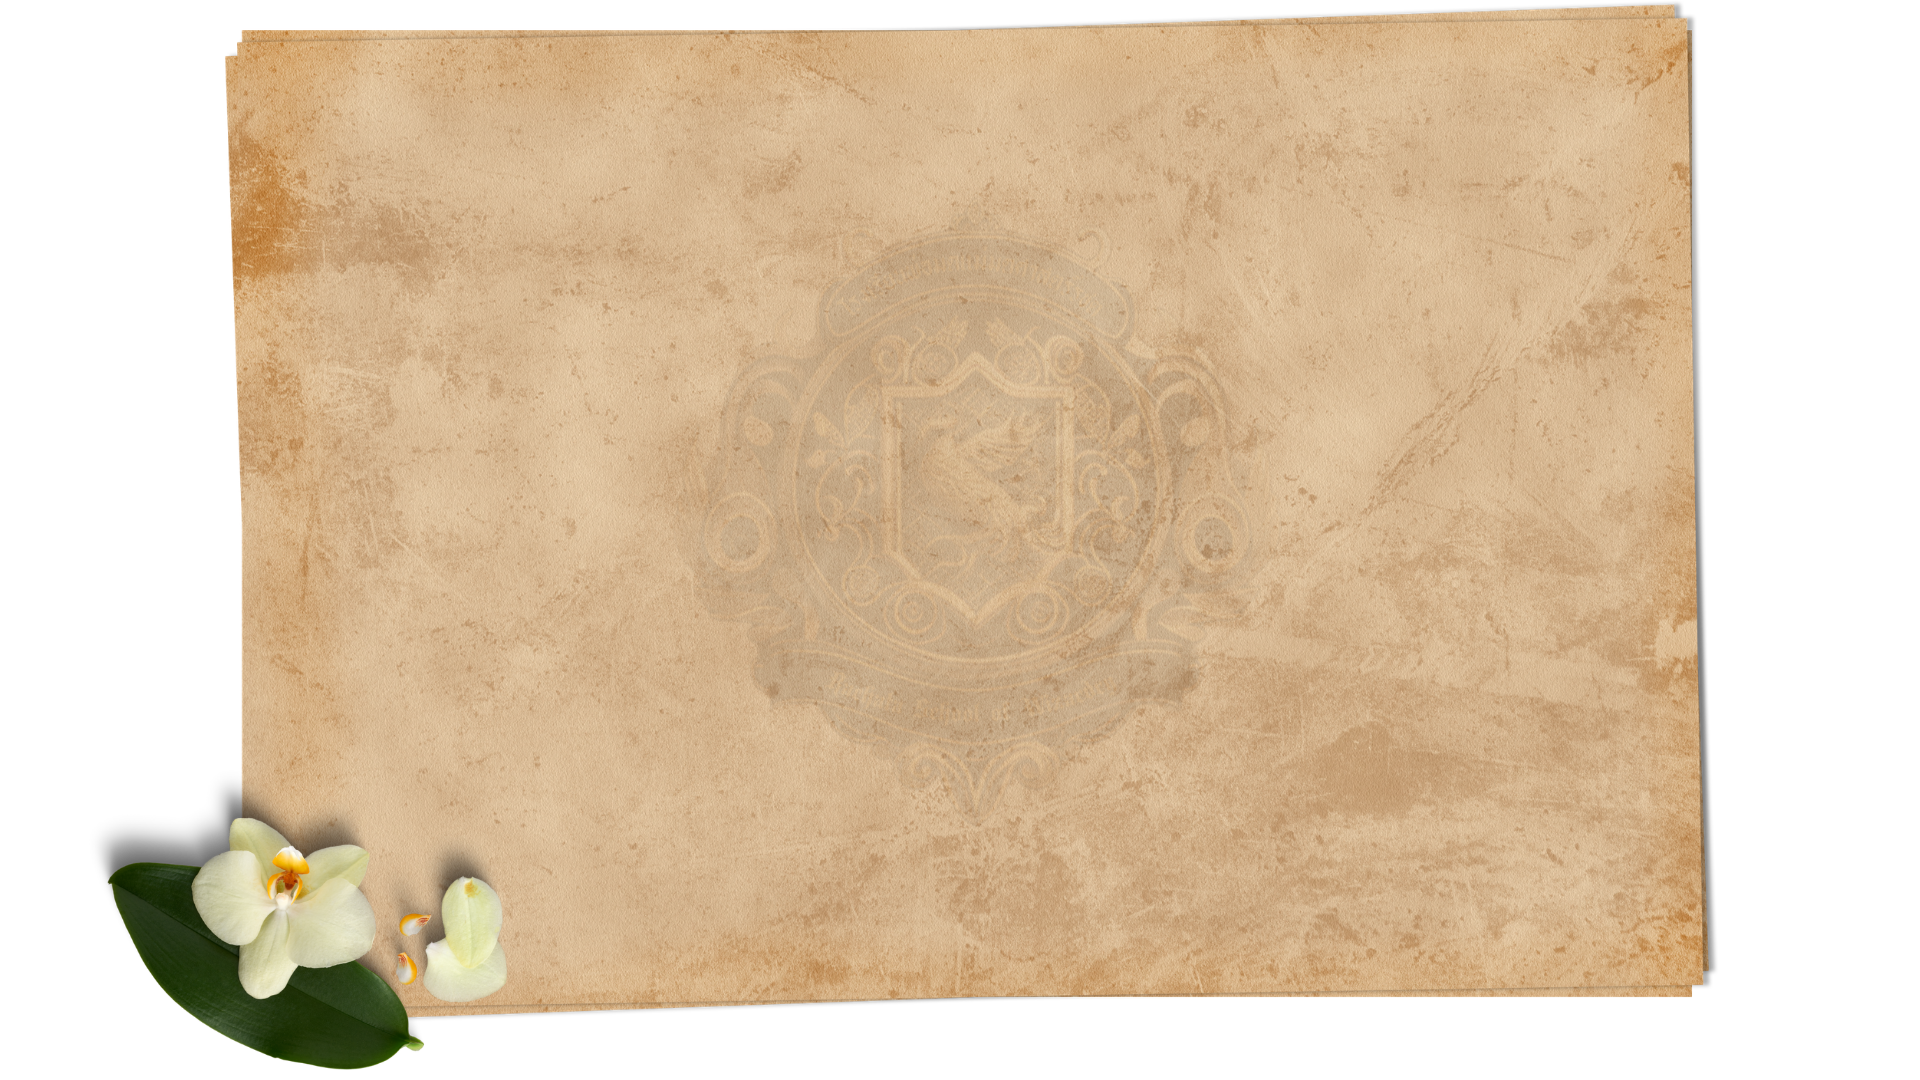
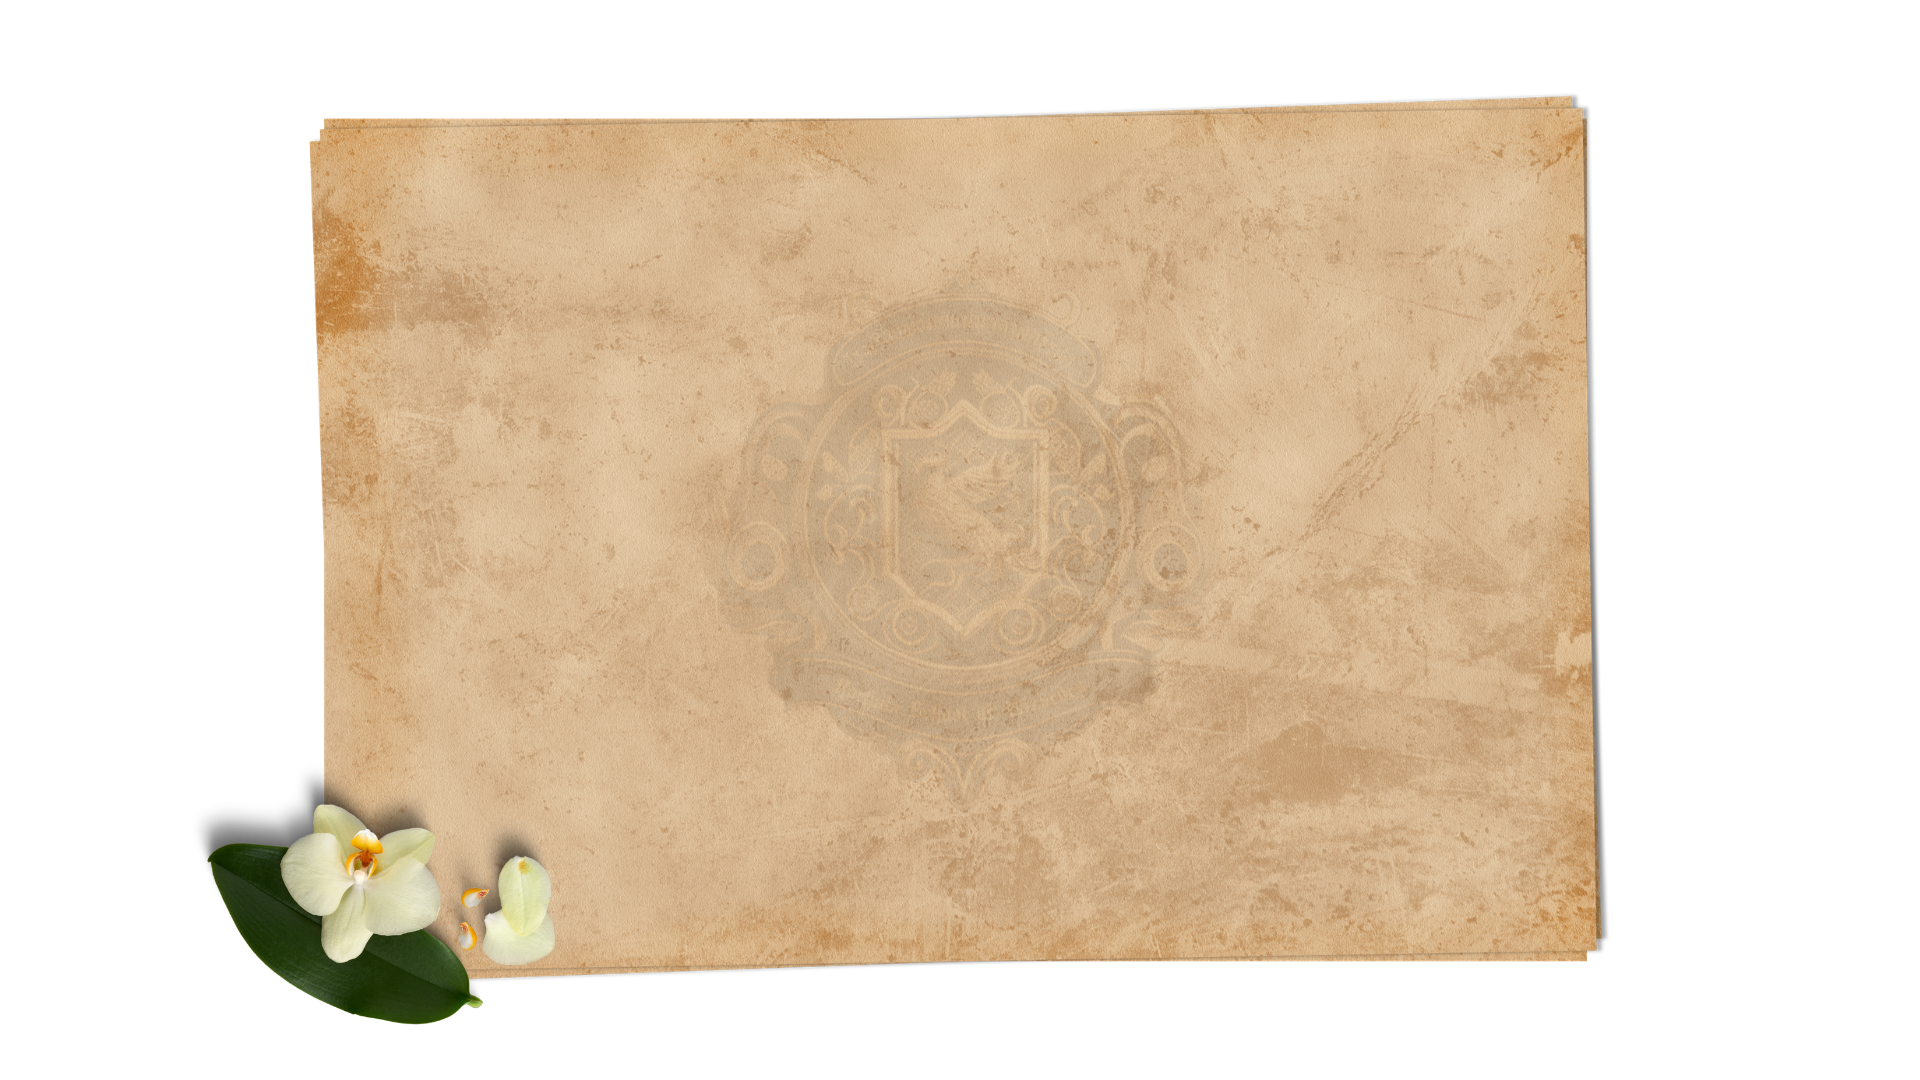
fix

diff --git a/css/dashboard-magic.css b/css/dashboard-magic.css
@@ -1493,7 +1493,7 @@ select.parchment-input {
 .letter-parchment {
     background: url('../assets/images/LetterTemplate.png') center/100% 100% no-repeat;
     border-radius: 6px;
-    padding: 6rem 6.5rem 4rem;
+    padding: 13% 10% 6%;
     position: relative;
     box-shadow: 0 8px 40px rgba(0, 0, 0, 0.8);
     aspect-ratio: 1.45 / 1;
@@ -1555,8 +1555,8 @@ select.parchment-input {
     border: 1px solid rgba(140, 100, 50, 0.2);
     border-radius: 8px;
     padding: 0.8rem 1.2rem;
-    width: 100%;
-    margin: 0 auto 0.5rem;
+    width: 85%;
+    margin: 1rem auto 0.5rem;
     box-sizing: border-box;
 }
 
@@ -1599,6 +1599,8 @@ select.parchment-input {
     display: grid;
     grid-template-columns: 3fr 1fr;
     gap: 1rem;
+    width: 90%;
+    margin: 0.5rem auto 0;
 }
 
 .letter-field {
@@ -1612,6 +1614,8 @@ select.parchment-input {
     flex-grow: 1;
     display: flex;
     flex-direction: column;
+    width: 90%;
+    margin: 0 auto;
 }
 
 .letter-label {